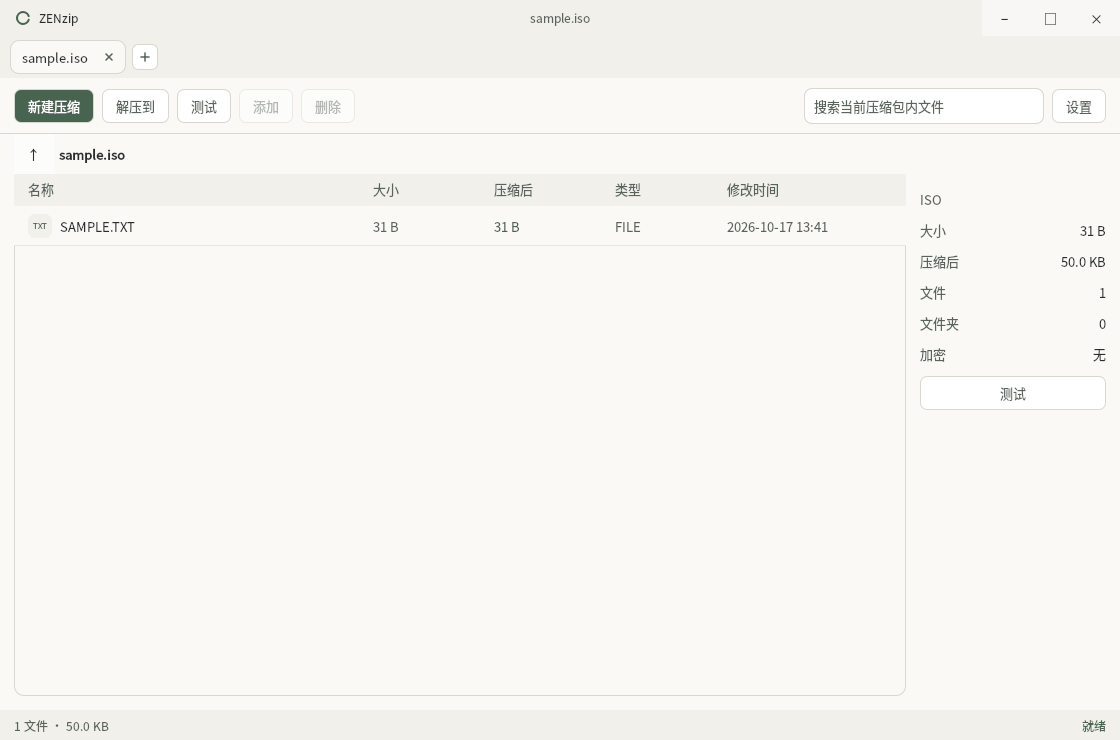
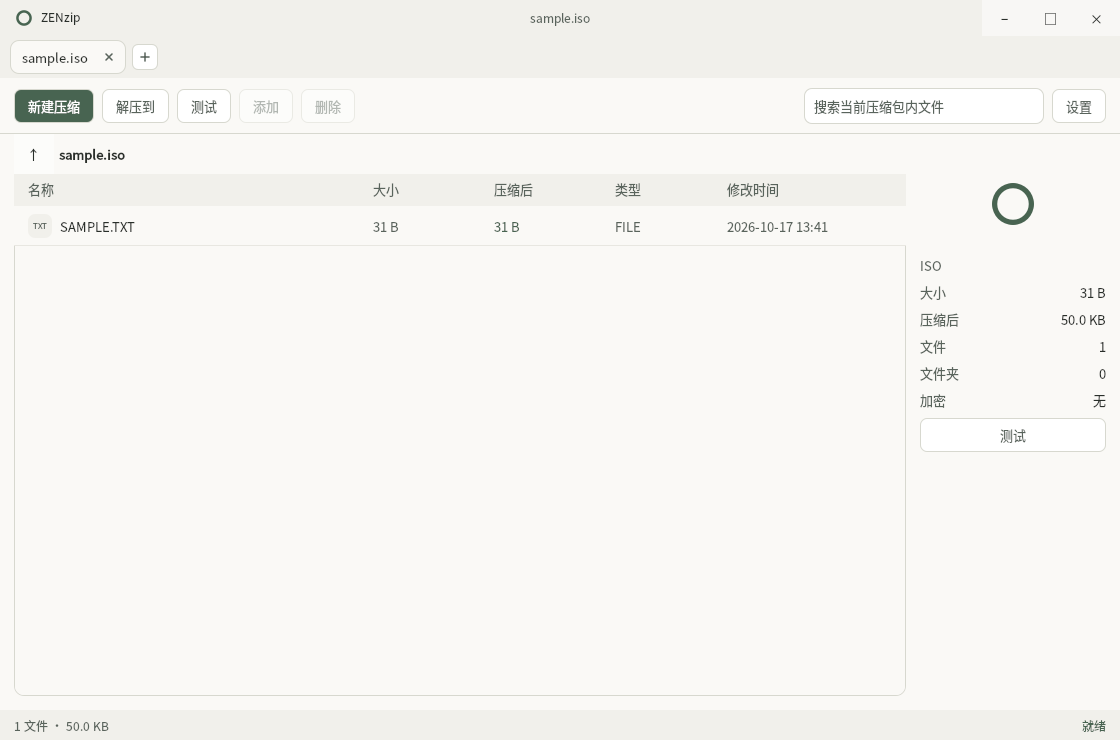
docs: align README captures and verification with stable 0.4.2 (#11)

diff --git a/README.md b/README.md
@@ -4,11 +4,11 @@
 
 A quiet, cross-platform archive manager. Native 7-Zip and a simple Qt Quick interface for opening, creating and extracting archives.
 
-**Version 0.4.1** · Windows, macOS and Linux · x64 and ARM64
+**Version 0.4.2** · Windows, macOS and Linux · x64 and ARM64
 
-[Download](https://github.com/whh110112/ZENzip/releases/tag/v0.4.1) · [Installation](native/docs/installation-guide.md) · [Known limitations](native/docs/known-limitations.md)
+[Download](https://github.com/whh110112/ZENzip/releases/tag/v0.4.2) · [Installation](native/docs/installation-guide.md) · [Known limitations](native/docs/known-limitations.md)
 
-![ZENzip 0.4.1 English interface](docs/screenshots/en.png)
+![ZENzip 0.4.2 English interface](docs/screenshots/en.png)
 
 ## A little less noise
 
@@ -16,6 +16,7 @@ A quiet, cross-platform archive manager. Native 7-Zip and a simple Qt Quick inte
 - Create ZIP, 7Z, TAR and TAR.GZ; extract RAR, RAR5, ISO and WIM too.
 - Encrypted archives, split volumes, ZIP64 and legacy filename encodings.
 - Six quiet palettes: Paper, Ink, Sand, Slate, Mist and Bamboo. Eighteen languages, including RTL.
+- The A circular mark automatically follows the skin and archive-size ratio; OS icons stay fixed. [Custom theme format](native/docs/themes.md).
 - Saved passwords and desktop integration. Windows uses DPAPI; macOS/Linux vault files use owner-only permissions and are **not encrypted**.
 
 C++17, Qt 6.8.3 and 7-Zip 26.04. Runs offline without Electron or Node.js. Existing native profiles and Windows encrypted vaults remain compatible.
@@ -30,13 +31,11 @@ All 18 translation catalogs are checked for missing keys. Fonts come from the op
 
 Windows packages are unsigned. macOS packages are ad-hoc signed and not notarized. Linux deb requires glibc 2.39 or later; macOS requires 13 or later.
 
-Windows uses the classic context menu, under “Show more options” on Windows 11. Modern Windows 11 menus, Finder/Nautilus extensions, SFX creation, archive repair and an auto-updater are not included. See the [feature matrix](native/docs/feature-parity.md) and [0.4.1 verification report](docs/verification-0.4.1.md) for the tested scope.
+Windows uses the classic context menu, under “Show more options” on Windows 11. Modern Windows 11 menus, Finder/Nautilus extensions, SFX creation, archive repair and an auto-updater are not included. See the [feature matrix](native/docs/feature-parity.md) and [0.4.2 verification report](docs/verification-0.4.2.md) for the tested scope.
 
 ## Build and contribute
 
 The [native workflow](.github/workflows/native-candidate.yml) pins dependencies and builds all six targets. See the [installation/build guide](native/docs/installation-guide.md). Full capture matrices belong in build artifacts; each README shows one real capture in its own language.
-
-The current source adds an adaptive circular identity. See [theme authoring and automatic logo behavior](native/docs/themes.md); these changes are not included in the existing 0.4.1 downloads.
 
 ## License
 

diff --git a/docs/verification-0.4.2.md b/docs/verification-0.4.2.md
@@ -6,6 +6,15 @@ This release adopts the A open-circle identity from PR #10. Window logos automat
 
 Publication requires a successful Native candidate run on main for exactly the checked-out source commit and version 0.4.2. All six OS/architecture manifests must identify that same clean source. Every package's size and SHA256 must match its manifest, and every uploaded asset's digest and size must match before the release becomes public. The release page records the final candidate run and source commit.
 
+## Published build evidence
+
+- Source: `df1b709e9118ecf5d0eceef427bb621895c09d22`.
+- [Main Native candidate 39368855071](https://github.com/whh110112/ZENzip/actions/runs/39368855071): all six targets, 15 CTest suites per target, offline packages and aggregate verification passed.
+- [ZENzip 0.4.2](https://github.com/whh110112/ZENzip/releases/tag/v0.4.2) was promoted from those exact manifests and packages.
+- [Stable publication 39369920328](https://github.com/whh110112/ZENzip/actions/runs/39369920328) succeeded on attempt 2. Attempt 1 stopped because the newly created draft was not immediately visible through the release-list API; no incomplete release was made public. The resumed job verified all 21 uploaded assets before publication. An independent post-publication check matched the six manifests, 14 packages, checksum list and source tag.
+- The two README images are byte-for-byte copies of the matching English/Chinese captures in Windows artifact `12240702658`. Their SHA256 values and capture-font digest are recorded in `docs/screenshots/manifest.json`.
+- This documentation follow-up does not change the application sources or the published binaries.
+
 ## Test and packaging scope
 
 - Windows, macOS and Linux on x64 and ARM64: 15 CTest suites per target, isolated application/worker startup, package architecture and dependency checks.
@@ -20,3 +29,5 @@ Publication requires a successful Native candidate run on main for exactly the c
 The final release page links the exact main candidate used for published binaries. Native captures remain CI artifacts; README previews are updated from the published build's paired capture manifest. Earlier failed development runs remain historical records and are not eligible for publication.
 
 Visual sampling supplements automated layout and rendering checks. It does not certify every glyph or translation. Windows packages are unsigned; macOS packages are ad-hoc signed and not notarized. Modern Windows 11 menus, comprehensive cross-application drag-out improvements and physical-machine desktop coverage remain outside this release. macOS/Linux vault files use permissions and are not encrypted.
+
+Custom background loading checks the available Qt image codecs before accepting artwork. PNG/JPEG are included in the packages; WebP requires an available Qt codec and is safely ignored when unsupported.

diff --git a/README.zh-CN.md b/README.zh-CN.md
@@ -4,11 +4,11 @@
 
 一款安静、简洁的跨平台压缩包管理器。以原生 7-Zip 为核心，用清晰的 Qt Quick 界面完成打开、压缩与解压。
 
-**版本 0.4.1** · Windows、macOS、Linux · x64 与 ARM64
+**版本 0.4.2** · Windows、macOS、Linux · x64 与 ARM64
 
-[下载](https://github.com/whh110112/ZENzip/releases/tag/v0.4.1) · [安装指南](native/docs/installation-guide.md) · [已知限制](native/docs/known-limitations.md)
+[下载](https://github.com/whh110112/ZENzip/releases/tag/v0.4.2) · [安装指南](native/docs/installation-guide.md) · [已知限制](native/docs/known-limitations.md)
 
-![ZENzip 0.4.1 简体中文界面](docs/screenshots/zh-CN.png)
+![ZENzip 0.4.2 简体中文界面](docs/screenshots/zh-CN.png)
 
 ## 少一点纷扰
 
@@ -16,6 +16,7 @@
 - 创建 ZIP、7Z、TAR 和 TAR.GZ；也能解压 RAR、RAR5、ISO 与 WIM。
 - 加密压缩包、分卷、ZIP64，以及旧压缩包的文件名编码。
 - 六款素雅皮肤：素纸、夜墨、砂庭、青石、薄雾、竹影。支持 18 种界面语言与 RTL。
+- A 圆环标志自动跟随皮肤和压缩包体积比例，系统图标使用固定样式。支持[自定义皮肤配色与底纹](native/docs/themes.zh-CN.md)。
 - 常用密码保存与桌面集成。Windows 密码库由 DPAPI 加密；macOS/Linux 仅靠文件权限保护，**不加密**。
 
 使用 C++17、Qt 6.8.3 和 7-Zip 26.04，可离线运行，无需 Electron 或 Node.js。兼容已有原生配置及 Windows 加密密码库。
@@ -30,13 +31,11 @@
 
 Windows 安装包未代码签名；macOS 为 ad-hoc 签名、未公证。Linux deb 需要 glibc 2.39 或更新版本；macOS 需要 13 或更新版本。
 
-Windows 使用经典右键菜单，在 Windows 11 中位于“显示更多选项”。本版不包含 Windows 11 现代菜单、Finder/Nautilus 扩展、自解压包创建、损坏修复和自动更新。功能边界见[功能矩阵](native/docs/feature-parity.md)，实测范围见 [0.4.1 验证报告](docs/verification-0.4.1.md)。
+Windows 使用经典右键菜单，在 Windows 11 中位于“显示更多选项”。本版不包含 Windows 11 现代菜单、Finder/Nautilus 扩展、自解压包创建、损坏修复和自动更新。功能边界见[功能矩阵](native/docs/feature-parity.md)，实测范围见 [0.4.2 验证报告](docs/verification-0.4.2.md)。
 
 ## 构建与参与
 
 [原生构建流程](.github/workflows/native-candidate.yml)固定依赖版本，覆盖六个平台目标。构建说明见[指南](native/docs/installation-guide.md)。完整截图矩阵保存在构建附件中，README 各自只展示一张对应语言的真实截图。
-
-当前源码新增了自动适配的圆环标志，详见[皮肤格式与 logo 行为](native/docs/themes.zh-CN.md)；现有 0.4.1 下载包尚不包含这项更新。
 
 ## 许可
 
